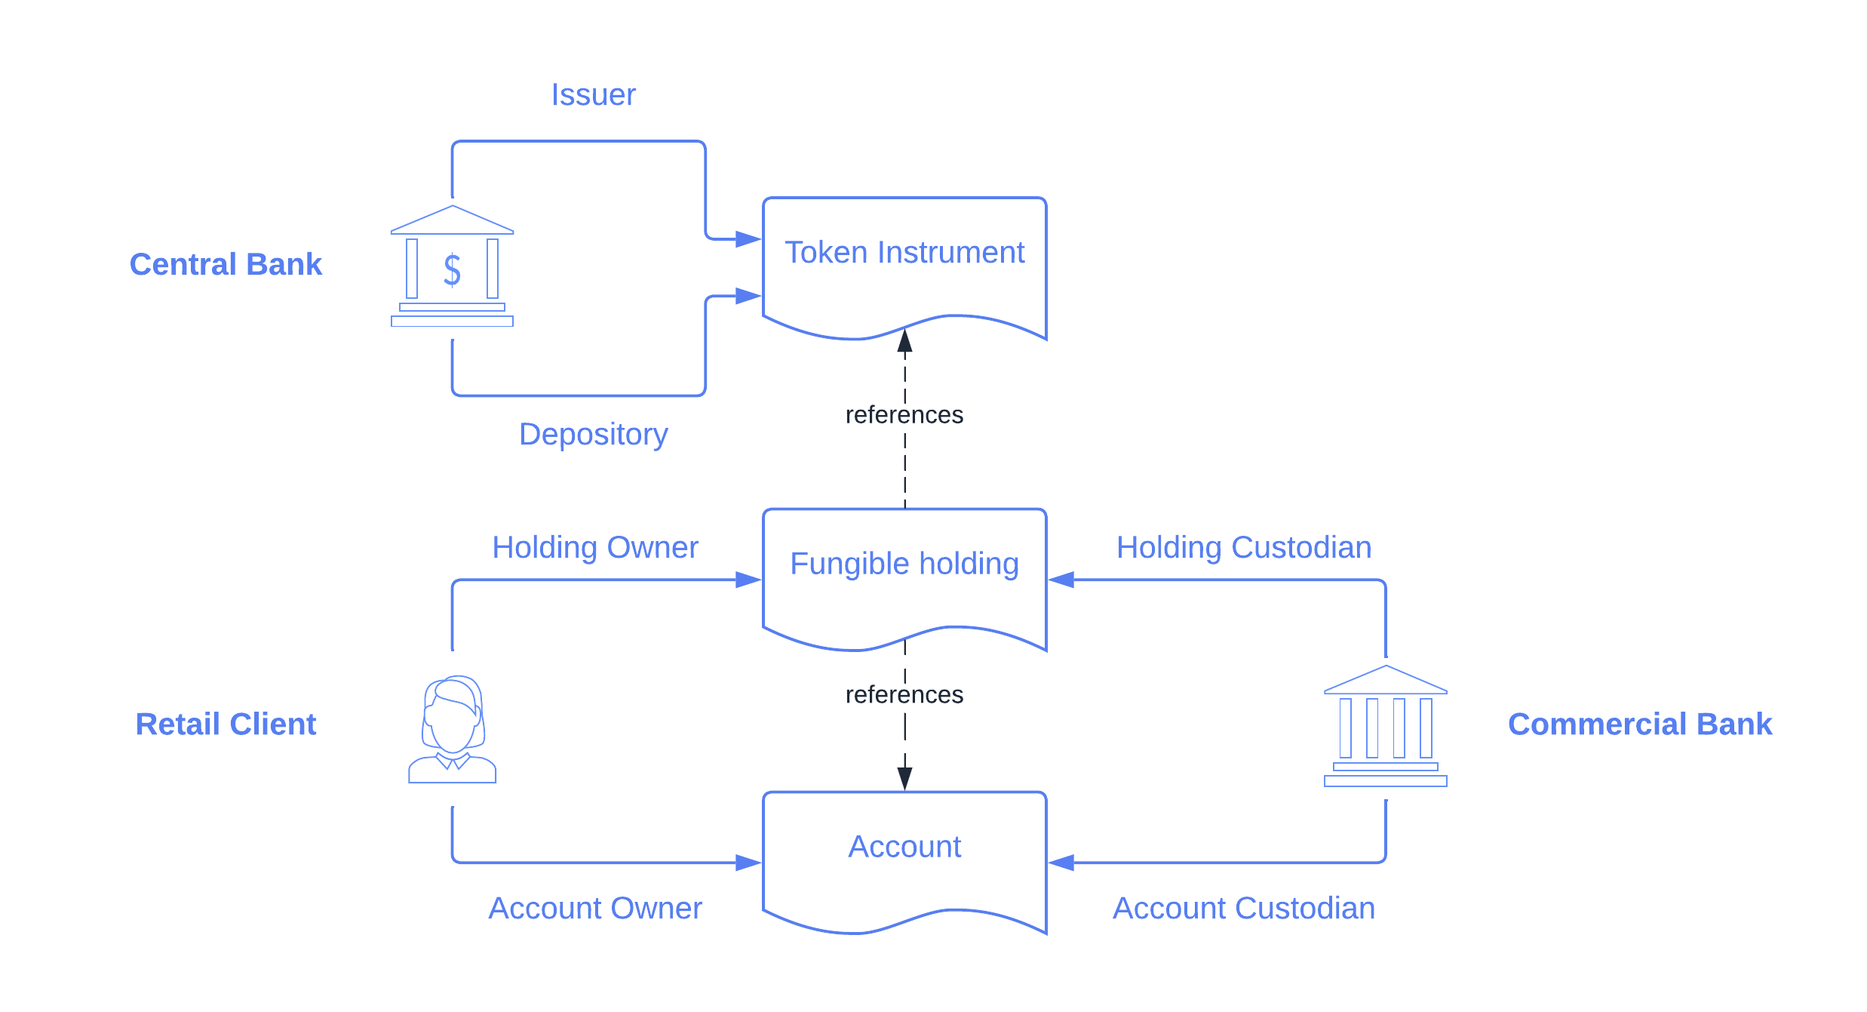
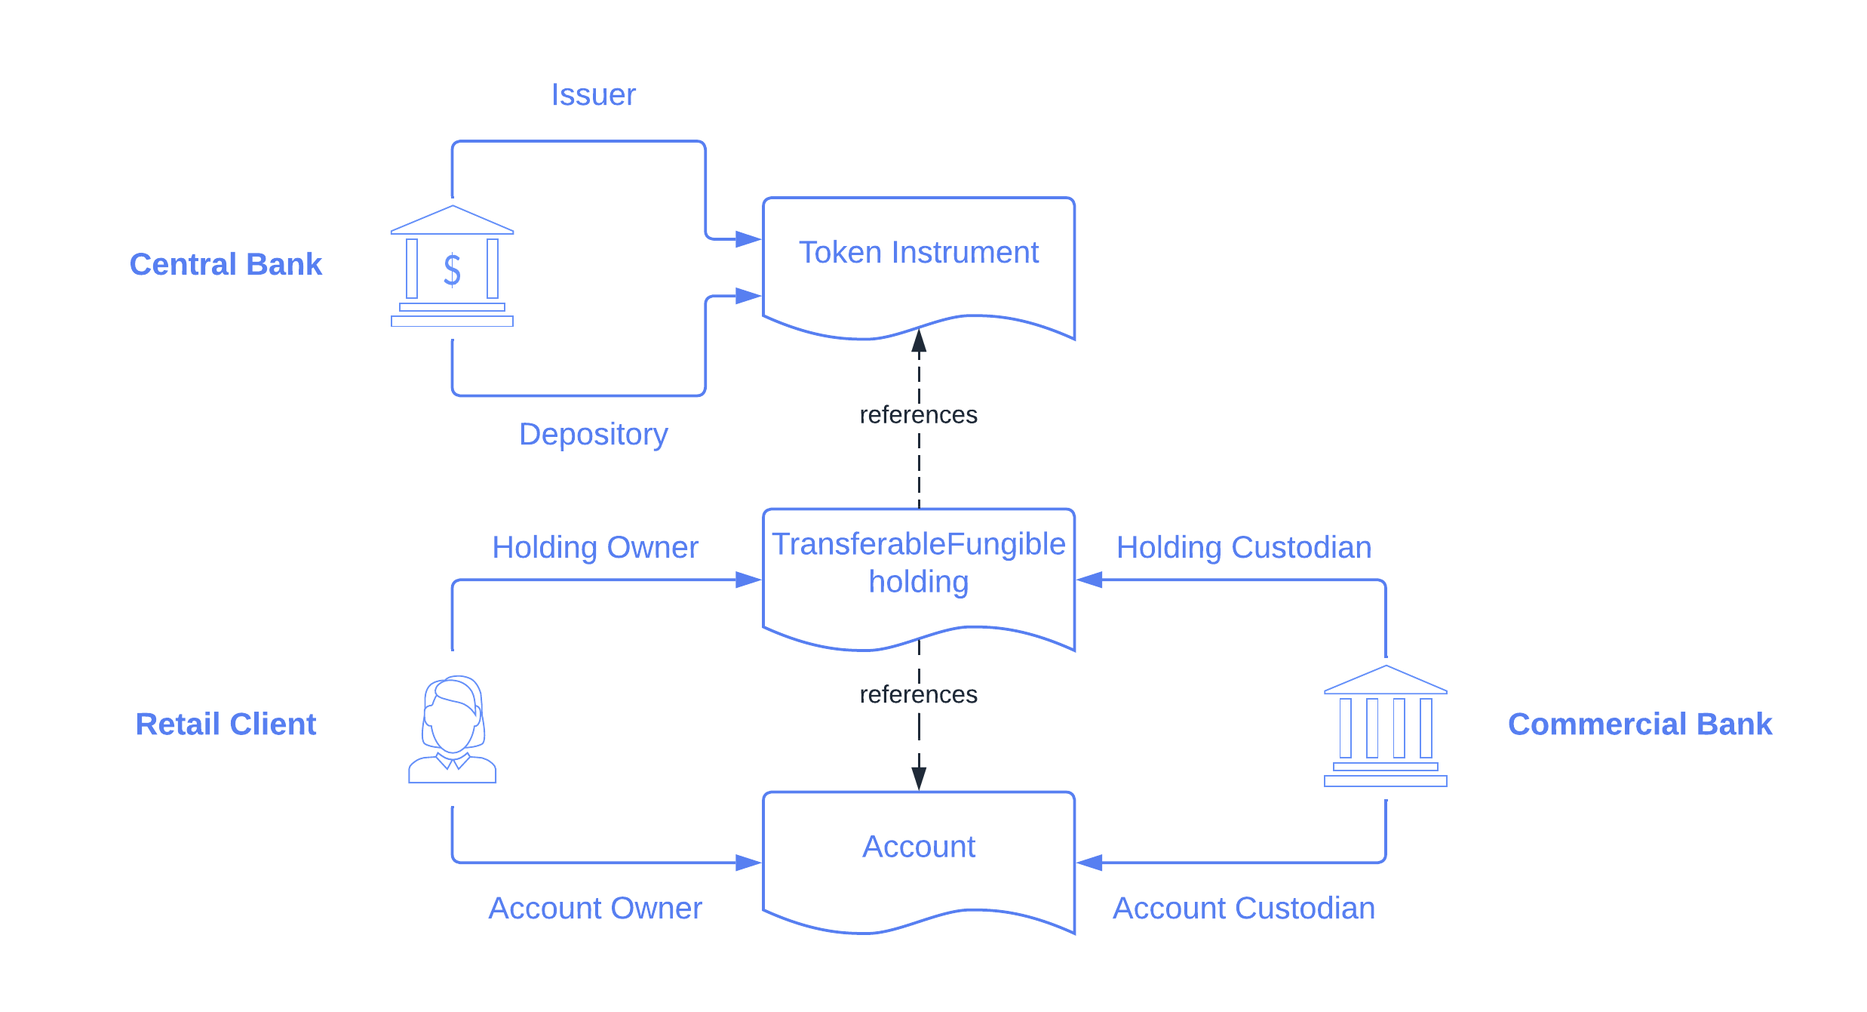
Update Daml Finance docs after snapshot release (#487)
keyed holding factory, holding standard, freezing of account, and interface keys

diff --git a/docs/2.8.0/docs/daml-finance/concepts/asset-model.rst b/docs/2.8.0/docs/daml-finance/concepts/asset-model.rst
@@ -16,6 +16,9 @@ financial contract.
 It can be as simple as an ISIN code referencing some real-world (off-ledger) security, or it can
 encode specific on-ledger lifecycling logic.
 
+Additionally, it specifies the instrument's holding standard or properties, which is described in
+more detail in the :ref:`Holding Standards <holding-standards>` section.
+
 Signatories
 ===========
 
@@ -40,6 +43,7 @@ which comprises:
 - the instrument ``depository``
 - a textual ``id``
 - a textual ``version``
+- the instrument's ``holdingStandard``
 
 The version is used to keep track of the linear evolution of an instrument. For example, once a
 dividend on a share is paid, the version is used to identify the cum-dividend and the ex-dividend
@@ -80,7 +84,7 @@ A holding contract represents the ownership of a certain amount of an instrument
 custodian.
 
 Whereas an instrument defines *what* a party holds (the rights and obligations), a holding defines
-*how much* (ie., the amount) of an instrument and *against which party* (ie., the custodian) the
+*how much* (i.e., the amount) of an instrument and *against which party* (i.e., the custodian) the
 instrument is being held.
 
 It is important to understand that the economic terms of an asset (the instrument) are separated
@@ -101,39 +105,49 @@ The terminology is again borrowed from the real world: our cash or shares are us
 custodian and we have (at least in principle) the right to claim them back from the custodian at any
 given time.
 
-Properties of Holdings
-======================
+.. _holding-standards:
 
-A holding implementation can have specific properties such as being :ref:`fungible <fungibility>` or
-:ref:`transferable <transferability>`.
+Holding Standards
+=================
+
+A holding implementation can have specific properties such as being :ref:`fungible <fungibility>`
+and/or :ref:`transferable <transferability>`.
 
 When, for instance, a holding is transferable, the ownership can be transferred to a different party
 at the same custodian.
 
-These properties are exposed by implementing the corresponding interface
+These properties are exposed by letting a holding template implement the corresponding interfaces
 (:ref:`Fungible <type-daml-finance-interface-holding-fungible-fungible-60176>` and
 :ref:`Transferable <type-daml-finance-interface-holding-transferable-transferable-24986>`,
 respectively).
 
-.. _implementations-1:
+The library distinguishes four types of holdings, referred to as :ref:`Holding Standard
+<type-daml-finance-interface-types-common-types-holdingstandard-38061>`\s, namely:
+
+1. `Fungible`: Holdings that are fungible only.
+2. `Transferable`: Holdings that are transferable only.
+3. `TransferableFungible`: Holdings that are both transferable and fungible.
+4. `BaseHolding`: Holdings that are neither transferable nor fungible.
 
 Interfaces
 ==========
 
-Holding interfaces are defined in the ``Daml.Finance.Interface.Holding`` package. These include a
-:ref:`base holding interface <module-daml-finance-interface-holding-base-24195>`,
-as well as interface definitions for the above properties.
+Holding interfaces are defined in the ``Daml.Finance.Interface.Holding`` package. It consists of
+the interfaces :ref:`holding <module-daml-finance-interface-holding-holding-64126>`,
+:ref:`transferable <module-daml-finance-interface-holding-transferable-88121>`, and
+:ref:`fungible <module-daml-finance-interface-holding-fungible-63712>`.
+
+.. _implementations-1:
 
 Implementations
 ===============
 
-Implementations are provided in ``Daml.Finance.Holding`` for:
+``Daml.Finance.Holding`` provides implementations for each holding standard:
 
-- a :ref:`fungible and transferable <module-daml-finance-holding-fungible-7201>` holding
-- a holding which is
-  :ref:`transferable but not fungible <module-daml-finance-holding-nonfungible-86571>`
-- a holding which is
-  :ref:`neither transferable nor fungible <module-daml-finance-holding-nontransferable-44402>`
+- :ref:`fungible only <module-daml-finance-holding-fungible-7201>`
+- :ref:`transferable only <module-daml-finance-holding-transferable-43388>`
+- :ref:`both transferable and fungible <module-daml-finance-holding-transferablefungible-77726>`
+- :ref:`neither transferable nor fungible <module-daml-finance-holding-baseholding-57062>`
 
 Account
 *******
@@ -204,10 +218,12 @@ A base account implementation is provided in
 
 The account can be created with arbitrary
 :ref:`controllers <type-daml-finance-interface-account-account-controllers-36430>`
-(for incoming and outgoing transfers).
+(for incoming and outgoing transfers). Our examples typically let accounts be owners-controlled,
+i.e., both the current owner and the new owner must authorize transfers.
 
-In our examples, we typically let accounts be owners-controlled, i.e., both the current owner and
-the new owner must authorize transfers.
+The account also implements
+the :ref:`Lockable <module-daml-finance-interface-util-lockable-80915>` interface, enabling the
+freezing of an account, thus disabling credits and debits.
 
 Example setups
 **************
@@ -232,9 +248,9 @@ The Retail Client has an
 the former acting as ``owner`` and the latter as ``custodian``.
 
 Finally, the Retail Client is ``owner`` of a
-:ref:`fungible holding <type-daml-finance-holding-fungible-fungible-28517>` at the Commercial Bank
-(the ``custodian`` in the contract). The holding references the currency instrument, as well as the
-account.
+:ref:`transferable and fungible holding <module-daml-finance-holding-transferablefungible-77726>` at
+the Commercial Bank (i.e., the ``custodian`` in the contract). The holding references the currency
+instrument and the account.
 
 .. image:: ../images/asset_model_currency.png
    :alt: Currency asset setup.

diff --git a/docs/2.8.0/docs/daml-finance/tutorials/getting-started/transfer.rst b/docs/2.8.0/docs/daml-finance/tutorials/getting-started/transfer.rst
@@ -48,43 +48,40 @@ If you look at the implementation of the ``Transfer`` workflow, you will notice 
   :end-before: -- DO_TRANSFER_END
 
 The first line converts the holding contract id (of type
-:ref:`ContractId Holding.I <type-daml-finance-interface-holding-base-base-14854>`) to the
+:ref:`ContractId Holding.I <type-daml-finance-interface-holding-holding-holding-36312>`) to the
 :ref:`Transferable.I <type-daml-finance-interface-holding-transferable-transferable-24986>`
 interface using ``coerceInterfaceContractId``.
 
 Then, the ``Transfer`` choice, defined as part of the
 :ref:`Transferable <type-daml-finance-interface-holding-transferable-transferable-24986>`
-interface, is invoked.
+interface, is exercised.
 
 Finally, the new holding is converted back to a
-:ref:`Holding.I <type-daml-finance-interface-holding-base-base-14854>`
+:ref:`Holding.I <type-daml-finance-interface-holding-holding-holding-36312>`
 before it is returned. This is done using ``toInterfaceContractId``.
 
 In order to fully understand these instructions, we need to keep in mind the interface hierarchy
 used by our holding implementation.
 
 .. image:: ../../images/interface_hierarchy.png
-  :alt: A diagram of t he interface hierarchy. From left to right, Disclosure, Holding,
-        Transferable, and Fungible are each linked by arrows pointing left. Below is an arrow, also
-        pointing left, labelled Implements.
+  :alt: A diagram of the interface hierarchy. From left to right, Disclosure, Lockable, Holding,
+        and Transferable are each linked by arrows pointing left. Additionally, Fungible is located
+        above from Transferable, and has an arrow pointing to Holding. All arrows are labeled
+        "requires".
 
 We use ``coerceInterfaceContractId`` to convert the
-:ref:`Holding.I <type-daml-finance-interface-holding-base-base-14854>`
-to a
-:ref:`Transferable <type-daml-finance-interface-holding-transferable-transferable-24986>`.
-The success of this
-operation is not guaranteed and will result in a run-time error if the holding implementation at
-hand does not implement
+:ref:`Holding.I <type-daml-finance-interface-holding-holding-holding-36312>`
+to a :ref:`Transferable <type-daml-finance-interface-holding-transferable-transferable-24986>`.
+The success of this operation is not guaranteed and will result in a run-time error if the holding
+implementation at hand does not implement
 :ref:`Transferable <type-daml-finance-interface-holding-transferable-transferable-24986>`.
 
 We use ``toInterfaceContractId`` to convert back to a
-:ref:`Holding <type-daml-finance-interface-holding-base-base-14854>`.
+:ref:`Holding <type-daml-finance-interface-holding-holding-holding-36312>`.
 This is because all
 :ref:`Transferable <type-daml-finance-interface-holding-transferable-transferable-24986>`\ s
-implement the
-:ref:`Holding.I <type-daml-finance-interface-holding-base-base-14854>` interface,
-so the validity of this operation is
-guaranteed at compile-time.
+implement the :ref:`Holding.I <type-daml-finance-interface-holding-holding-holding-36312>`
+interface, so the validity of this operation is guaranteed at compile-time.
 
 Why is Alice an observer on Bob’s account?
 ==========================================

diff --git a/docs/2.8.0/docs/daml-finance/tutorials/getting-started/settlement.rst b/docs/2.8.0/docs/daml-finance/tutorials/getting-started/settlement.rst
@@ -12,8 +12,8 @@ We are going to:
 #. create a new ``TOKEN``
    :ref:`instrument <type-daml-finance-interface-instrument-token-instrument-instrument-4350>`
 #. credit a ``TOKEN`` holding to Alice’s account
-#. setup a delivery-vs-payment (DvP) transaction to give Alice's ``TOKEN`` holding to Bob in exchange
-   for a ``USD`` holding
+#. setup a delivery-vs-payment (DvP) transaction to give Alice's ``TOKEN`` holding to Bob in
+   exchange for a ``USD`` holding
 #. settle this transaction atomically
 
 This example builds on the previous :doc:`Transfer <transfer>` tutorial script in the sense that
@@ -88,7 +88,8 @@ proposal, we need to instantiate two contracts:
    This is used to discover a settlement route, i.e.,
    :ref:`routed steps <type-daml-finance-interface-settlement-types-routedstep-10086>`, for each
    settlement :ref:`step <type-daml-finance-interface-settlement-types-step-78661>`. In this
-   example, the route provider simply converts each step to a routed step using a single custodian (the bank).
+   example, the route provider simply converts each step to a routed step using a single custodian
+   (the bank).
 
 2. :ref:`Settlement Factory <type-daml-finance-interface-settlement-factory-factory-31525>`
 
@@ -158,7 +159,8 @@ Consider a real-world example where Alice instructs a bank transfer to send USD 
 following happens:
 
 - ``USD 100`` are debited from Alice's account at her bank
-- ``USD 100`` are transferred from Alice's bank to Bob's bank (via their accounts at the central bank)
+- ``USD 100`` are transferred from Alice's bank to Bob's bank (via their accounts at the central
+  bank)
 - ``USD 100`` are credited to Bob's account at his bank
 
 A single settlement :ref:`Step <type-daml-finance-interface-settlement-types-step-78661>` requires
@@ -167,7 +169,8 @@ three :ref:`RoutedStep <type-daml-finance-interface-settlement-types-routedstep-
 The same dynamics can be reproduced in Daml with a :ref:`Route Provider
 <type-daml-finance-interface-settlement-routeprovider-routeprovider-53805>` implementation, allowing
 for on-ledger intermediated settlement. For example, see the
-:doc:`Intermediated Lifecycling <../advanced-topics/lifecycling/intermediated-lifecycling>` tutorial.
+:doc:`Intermediated Lifecycling <../advanced-topics/lifecycling/intermediated-lifecycling>`
+tutorial.
 
 Why do we need a settlement factory?
 ====================================

diff --git a/docs/2.8.0/docs/daml-finance/tutorials/getting-started/holdings.rst b/docs/2.8.0/docs/daml-finance/tutorials/getting-started/holdings.rst
@@ -37,17 +37,14 @@ Notice how the ``ContractId`` is immediately converted to an interface upon crea
 because our workflows, such as ``CreateAccount``, do not have any knowledge of concrete template
 implementations.
 
-Similarly, we define a :ref:`holding factory <type-daml-finance-holding-fungible-factory-35358>`,
-which is used within an account to create (``Credit``) holdings.
+Similarly, we instantiate a
+:ref:`holding factory <type-daml-finance-holding-factory-factory-67321>`, which is used within an
+account to create (``Credit``) holdings for any instrument.
 
 .. literalinclude:: ../../quickstart-finance/daml/Scripts/Holding.daml
   :language: daml
   :start-after: -- CREATE_HOLDING_FACTORY_BEGIN
   :end-before: -- CREATE_HOLDING_FACTORY_END
-
-This factory contract instantiates a specific implementation of holdings, which are defined in
-:ref:`Daml.Finance.Holding.Fungible <module-daml-finance-holding-fungible-7201>`
-and are both :ref:`fungible <fungibility>`, as well as :ref:`transferable <transferability>`.
 
 Finally, we create a factory template which is used to instantiate :ref:`token instruments
 <type-daml-finance-instrument-token-instrument-instrument-62305>`.
@@ -96,7 +93,8 @@ Deposit Cash in Alice’s Account
 
 We can now deposit cash in Alice’s account, using the ``CreditAccount`` workflow.
 Alice creates a request to deposit ``USD 1000`` at the Bank, the Bank then accepts the request and
-a corresponding :ref:`Holding <type-daml-finance-interface-holding-base-base-14854>` is created.
+a corresponding :ref:`Holding <type-daml-finance-interface-holding-holding-holding-36312>` is
+created.
 
 .. literalinclude:: ../../quickstart-finance/daml/Scripts/Holding.daml
   :language: daml
@@ -137,8 +135,7 @@ Why do we need factories?
 
 You might be wondering why we use account factories and holding factories instead of creating an
 :ref:`Account <type-daml-finance-account-account-account-12745>` or
-:ref:`Holding <type-daml-finance-holding-fungible-fungible-28517>`
-directly.
+:ref:`Holding <type-daml-finance-holding-transferablefungible-transferablefungible-83515>` directly.
 
 This is done to avoid having to reference the ``Daml.Finance.Holding`` package directly in the
 user workflows (and hence simplify upgrading procedures).

diff --git a/docs/2.8.0/docs/daml-finance/overview/extending-daml-finance.rst b/docs/2.8.0/docs/daml-finance/overview/extending-daml-finance.rst
@@ -15,8 +15,14 @@ be included in the library.
 Custom Holding Implementations
 ******************************
 
-Daml Finance provides default implementations for fungible, non-fungible, and non-transferable
-holdings. The transferability of transferable holdings can be flexibly controlled through the
+Daml Finance provides default holding implementations for the following holding standards:
+
+1. fungible only (i.e., the `Fungible` holding standard)
+2. transferable only (i.e., `Transferable` holding standard)
+3. both transferable and fungible (i.e., the `TransferableFungible` holding standard)
+4. neither fungible nor transferable (i.e., the `BaseHolding` holding standard)
+
+The transferability of transferable holdings can be flexibly controlled through the
 :ref:`controllers <type-daml-finance-interface-account-account-controllers-36430>`
 property on an :ref:`Account <module-daml-finance-account-account-19369>`.
 Some use cases, however, might require additional functionality on holding contracts:
@@ -55,6 +61,9 @@ For some cases, however, a custom account implementation may be warranted:
 - Additional information: a custom account implementation can serve to represent different concepts
   of accounts. For example, a shelf in a vault for gold bars or a specific location within a
   warehouse can be represented by providing additional information on an account implementation.
+- Account Freezing: an account can optionally implement
+  the :ref:`Lockable <module-daml-finance-interface-util-lockable-80915>` interface, allowing it to
+  be frozen, i.e., temporarily disabling credits and debits.
 
 Custom Instrument Implementations
 *********************************

diff --git a/docs/2.8.0/docs/daml-finance/packages/implementations/daml-finance-holding.rst b/docs/2.8.0/docs/daml-finance/packages/implementations/daml-finance-holding.rst
@@ -7,14 +7,16 @@ Daml.Finance.Holding
 This package contains the *implementation* of holdings, including utility functions. It has the
 following modules:
 
-- :ref:`Fungible <module-daml-finance-holding-fungible-7201>`: Implementation of a fungible
-  holding, including split and merge functionality
-- :ref:`NonFungible <module-daml-finance-holding-nonfungible-86571>`: Implementation of a
-  non-fungible holding, which cannot be split or merged
-- :ref:`NonTransferable <module-daml-finance-holding-nontransferable-44402>`: Implementation of
-  a non-transferable holding
-- :ref:`Util <module-daml-finance-holding-util-87323>`: Utility functions related to holdings,
-  e.g., to transfer or lock/release a holding
+- :ref:`Fungible <module-daml-finance-holding-fungible-7201>`: Implementation of a holding which is
+  fungible only, i.e., include split and merge functionality
+- :ref:`Transferable <module-daml-finance-holding-transferable-43388>`: Implementation of a holding
+  which is transferable only
+- :ref:`TransferableFungible <module-daml-finance-holding-transferablefungible-77726>`:
+  Implementation of a holding which is both transferable and fungible
+- :ref:`BaseHolding <module-daml-finance-holding-baseholding-57062>`: Implementation of
+  a holding which is neither transferable nor fungible
+- :ref:`Util <module-daml-finance-holding-util-87323>`: Utility functions related to holdings, e.g.,
+  to transfer or split/merge a holding
 
 The :doc:`Asset Model <../../concepts/asset-model>` page explains the relationship between
 instruments, holdings, and accounts. Also, check out the

diff --git a/docs/2.8.0/docs/daml-finance/reference/patterns.rst b/docs/2.8.0/docs/daml-finance/reference/patterns.rst
@@ -68,18 +68,22 @@ To do that, we define a `Reference` template that
  - is keyed by the `InstrumentKey`
  - contains the interface contract id of the target instrument
 
-We can then fetch an interface "by key" by 
+You can then fetch an interface "by key" by
  - fetching the `Reference` template by key (``fetchByKey``)
  - reading and ``fetch``-ing the stored contract id
 
 .. image:: ../images/reference_pattern.png
    :alt: Example using the reference pattern to fetch an interface "by key".
 
-Similarly, this pattern also lets us exercise a choice on an interface "by key".
+Similarly, this pattern let you exercise a choice on an interface "by key".
 
-The Reference pattern is currently used in Daml Finance for instruments and accounts, where we
-ensure that a template and its companion `Reference` template are kept in sync. It is however
-important to understand this pattern should you implement custom instruments or accounts.
+The Reference pattern is currently used in Daml Finance for instruments, accounts, and the holding
+factory. To maintain synchronization between a template and its corresponding `Reference`, we
+simultaneously create (archive) instances of both. Additionally, if the contract id of the target
+template changes, we update the `Reference` instance accordingly.
+
+It is important to understand this pattern should you implement custom instruments, accounts or
+holding factories.
 
 .. _getview:
 

diff --git a/docs/2.8.0/docs/daml/patterns/locking/locking-by-archiving.rst b/docs/2.8.0/docs/daml/patterns/locking/locking-by-archiving.rst
@@ -32,7 +32,7 @@ The steps below show how to use a consuming choice in the original contract to a
 
 * Add a consuming choice, *Lock*, to the *Coin* template that creates a *LockedCoin*.
 * The controller party on the *Lock* may vary depending on business context. In this example, *owner* is a good choice.
-* The parameters to this choice are also subject to business use case. Normally, it should have at least locking terms (eg. lock expiry time) and a party authorized to unlock.
+* The parameters to this choice are also subject to business use case. Normally, it should at least have locking terms (e.g. lock expiry time) and a party authorized to unlock.
 
 .. literalinclude:: ../daml/CoinIssuance.daml
   :language: daml

diff --git a/docs/2.8.0/docs/daml-finance/tutorials/getting-started/lifecycling.rst b/docs/2.8.0/docs/daml-finance/tutorials/getting-started/lifecycling.rst
@@ -101,8 +101,8 @@ the associated entitlements.
   :start-after: -- CLAIM_EVENT_BEGIN
   :end-before: -- CLAIM_EVENT_END
 
-As a side-effect of settling the entitlements, the presented holding is exchanged for a holding of the new
-token version. This is to prevent a holder from benefiting from a given effect twice.
+As a side-effect of settling the entitlements, the presented holding is exchanged for a holding of
+the new token version. This is to prevent a holder from benefiting from a given effect twice.
 
 In our example of a cash dividend, only a single instruction is generated: the movement of cash from
 the bank to the token holder. This instruction along with its batch is settled the usual way, as

diff --git a/docs/2.8.0/docs/daml-finance/packages/interfaces/daml-finance-interface-util.rst b/docs/2.8.0/docs/daml-finance/packages/interfaces/daml-finance-interface-util.rst
@@ -9,6 +9,10 @@ utility functions. They are defined in these modules:
 
 - :ref:`Disclosure <module-daml-finance-interface-util-disclosure-87755>`:
   An interface for managing the visibility of contracts for non-authorizing parties
+- :ref:`Lockable <module-daml-finance-interface-util-lockable-80915>`:
+  An interface for locking contracts, e.g., a holding or account
+- :ref:`InterfaceKeys <module-daml-finance-interface-util-interfacekey-52230>`:
+  An interface with utility functions for keying interfaces
 - :ref:`Common <module-daml-finance-interface-util-common-43703>`:
   Different utility functions related to interfaces and assertions
 

diff --git a/docs/2.8.0/docs/daml-finance/packages/interfaces/daml-finance-interface-holding.rst b/docs/2.8.0/docs/daml-finance/packages/interfaces/daml-finance-interface-holding.rst
@@ -9,7 +9,7 @@ modules:
 
 - :ref:`Factory <module-daml-finance-interface-holding-factory-6211>`:
   Interface for a holding factory used to create (credit) and archive (debit) holdings
-- :ref:`Base <module-daml-finance-interface-holding-base-24195>`:
+- :ref:`Holding <module-daml-finance-interface-holding-holding-64126>`:
   Interface for a base holding which includes locking capabilities
 - :ref:`Fungible <module-daml-finance-interface-holding-fungible-63712>`:
   Interface for a fungible holding which allows splitting and merging
